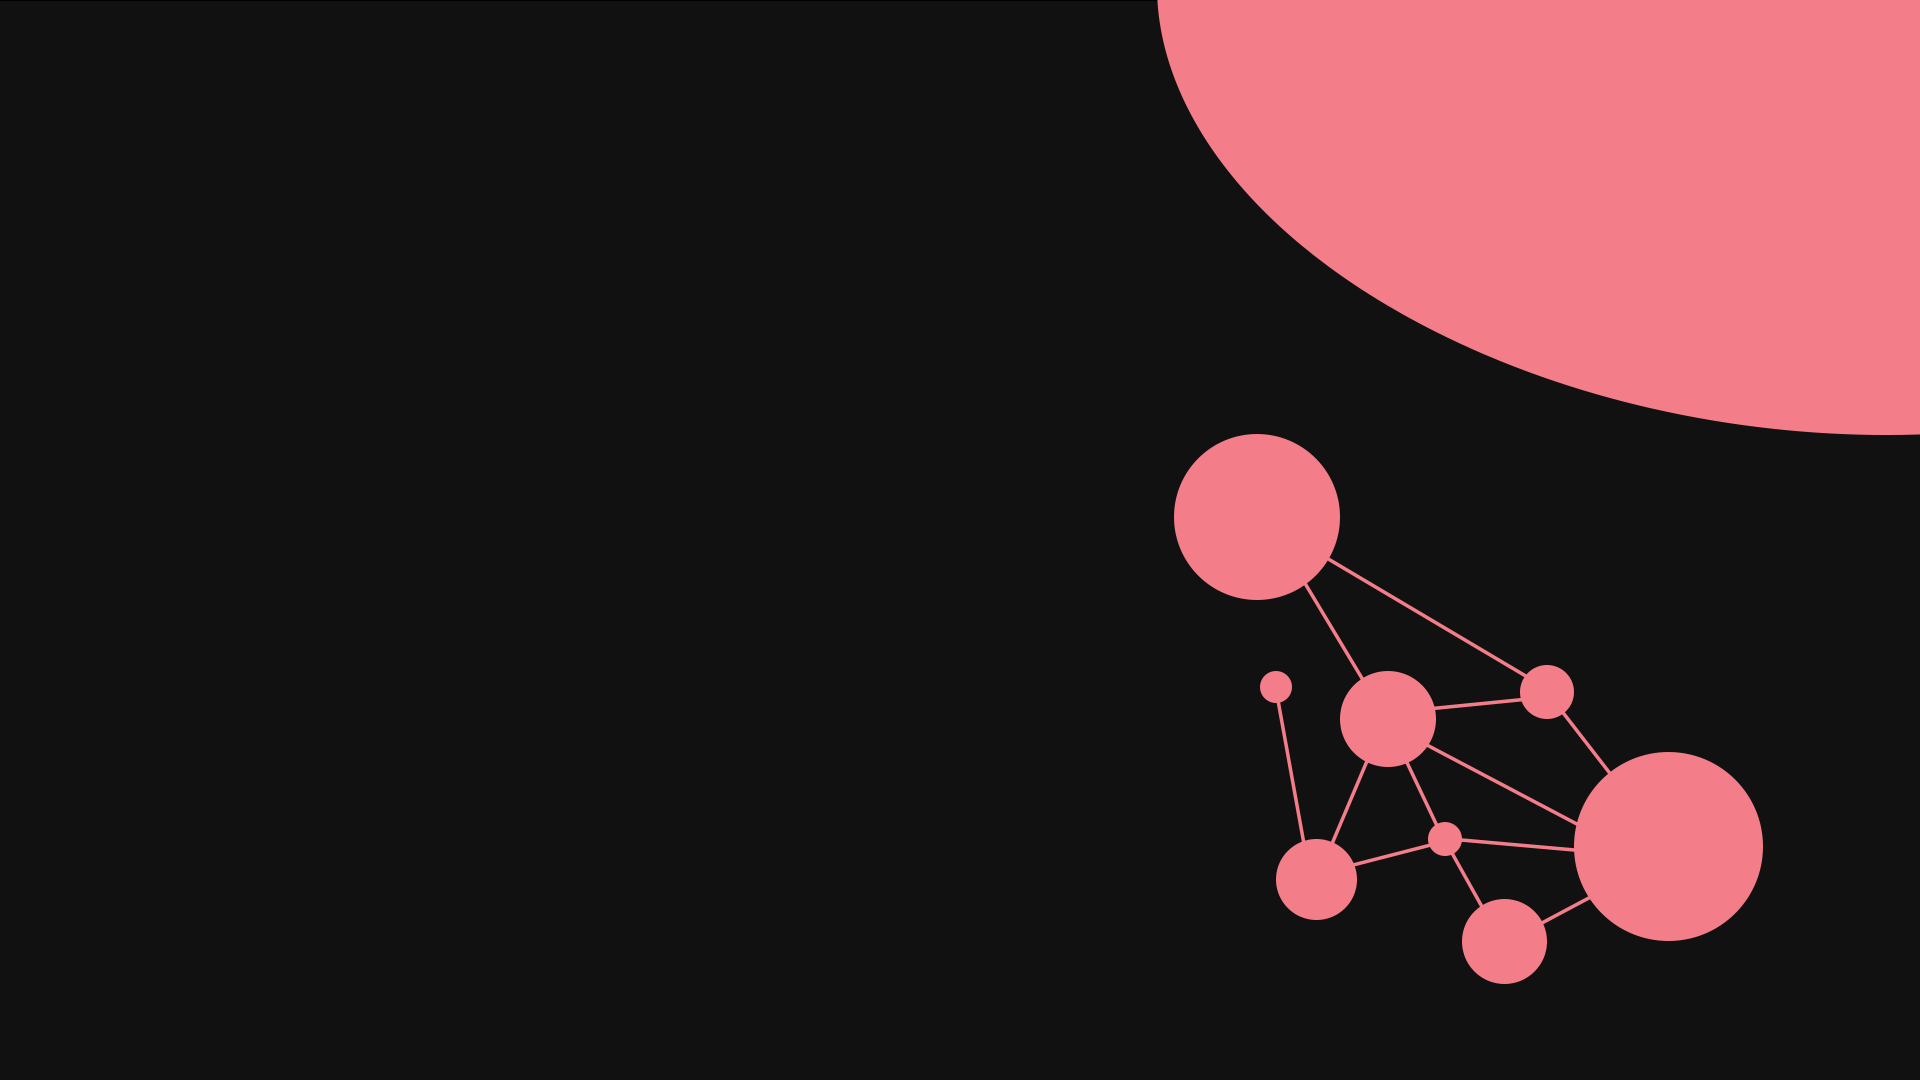
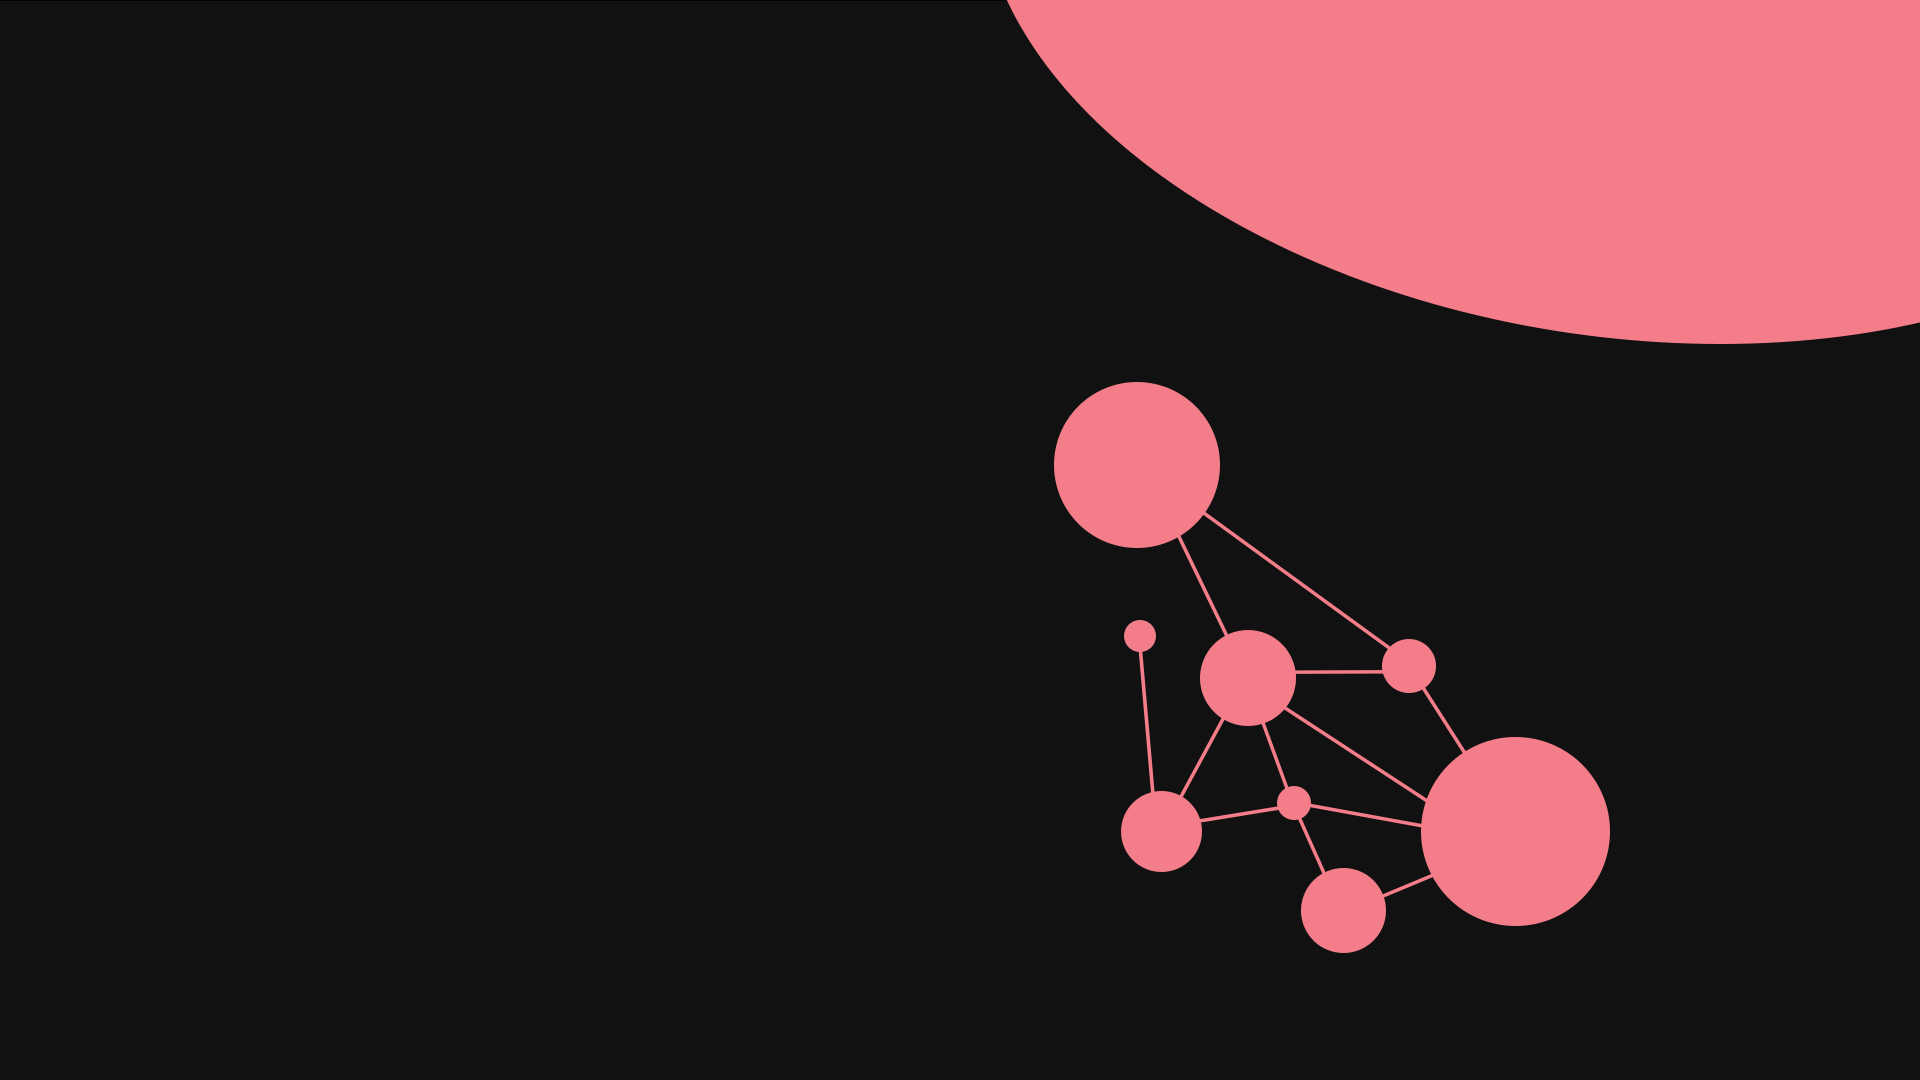
updated landing page

diff --git a/css/style.css b/css/style.css
@@ -151,7 +151,7 @@ nav:hover {
     top: 0;
     width: 100%;
     height: 100%;
-    background-image: url(../img/bg-cyber-1.png);   
+    background-image: url(../img/bg-cyber.png);   
     background-repeat: no-repeat;
     background-position: center;
     background-size: cover;
